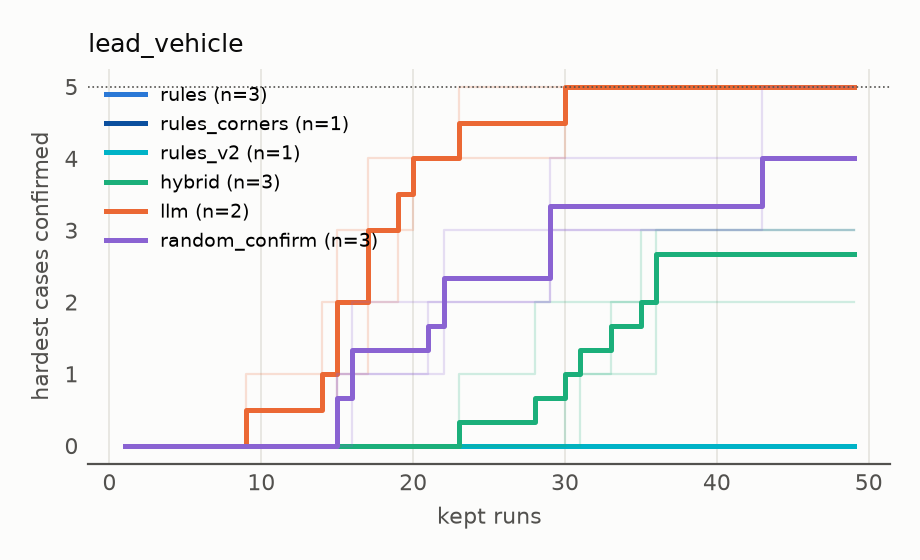
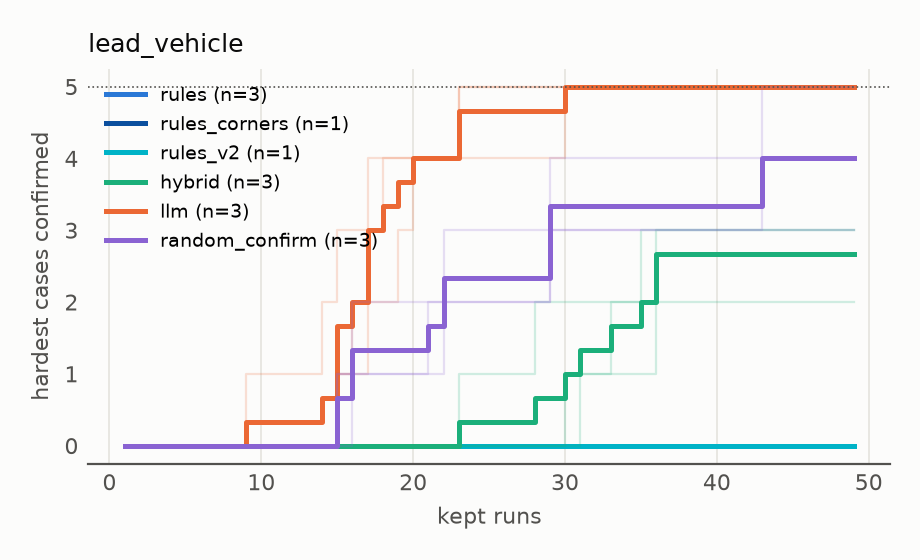
Lead vehicle llm replicate 4: 5 of 5 at 23 runs; lead vehicle complete

diff --git a/FACTS.md b/FACTS.md
@@ -554,16 +554,15 @@ space (2 knobs, 10 scenes) the rule candidates, alone or chosen by Claude,
 are the fastest and most consistent; the free Claude proposer is the
 slowest and most variable.
 
-### Lead vehicle, replicates so far (10 Oct)
+### Lead vehicle, three replicates of every method (10 Oct)
 
-Hardest 5 confirmed in 49 runs (llm: runs to the goal): llm 5 of 5 at 23
-and at 30 (both clean replicates; replicate 1 stopped on the broad count,
+Hardest 5 confirmed in 49 runs (llm: runs to the goal): llm 5 of 5 at 23,
+30 and 23 (three clean replicates; replicate 1 stopped on the broad count,
 left out); random + confirmation 5 at 43, then 4, then 3; hybrid 2, 3, 3; rules 0,
 0, 0 (also rules + corners 0, rules_v2 0). In this larger space (3 knobs,
 failures at the knob extremes) the free Claude proposer is fastest and
 most consistent; the rule candidates, alone or under Claude (hybrid), stay
-near the recorded setting and miss the extremes. A fourth llm replicate
-is queued (to replace the left-out one).
+near the recorded setting and miss the extremes.
 
 ### Cut-in, replicates so far (10 Oct)
 

diff --git a/METHODS.md b/METHODS.md
@@ -24,7 +24,7 @@ k most challenging scenes (1 = a crash), whether or not it was confirmed.
 | lead_vehicle | rules_corners | 1 | 49 | 0 | 49 | 49 | 0 of 5 | 0.853 | 0 | 0.0 |
 | lead_vehicle | rules_v2 | 1 | 49 | 0 | 49 | 49 | 0 of 5 | 0.891 | 1 | 0.0 |
 | lead_vehicle | hybrid | 3 | 49, 49, 49 | 0 | 49, 49, 49 | 49 | 2, 3, 3 of 5 | 0.92, 0.952, 0.955 | 7, 10, 9 | 110.8, 100.4, 101.3 |
-| lead_vehicle | llm | 2 | 28, 35 | 2 | 23, 30 | 26.5 | 5, 5 of 5 | 1.0, 1.0 | 21, 23 | 59.8, 75.8 |
+| lead_vehicle | llm | 3 | 28, 35, 28 | 3 | 23, 30, 23 | 23 | 5, 5, 5 of 5 | 1.0, 1.0, 1.0 | 21, 23, 17 | 59.8, 75.8, 59.1 |
 | lead_vehicle | random_confirm | 3 | 49, 49, 49 | 1 | 43, 49, 49 | 49 | 5, 4, 3 of 5 | 1.0, 0.978, 0.953 | 17, 17, 11 | 0.0, 0.0, 0.0 |
 | pedestrian_crossing | rules | 1 | 49 | 0 | 49 | 49 | 0 of 5 | 0.643 | 0 | 0.0 |
 | pedestrian_crossing | hybrid | 1 | 49 | 0 | 49 | 49 | 0 of 5 | 0.636 | 0 | 90.1 |

diff --git a/BACK.md b/BACK.md
@@ -50,8 +50,8 @@ by day is in `LOG.md`. Live results: `research/simgate serve` (Results tab),
    far, `METHODS.md`): pedestrian x ego speed (2 knobs, three replicates
    each, complete) hybrid 24/28/24, rules 25/25/25, random + confirmation
    31/32/32, llm 28/40/37 runs to the goal; lead
-   vehicle (3 knobs, failures at the extremes) llm 5 of 5 by runs 23 and
-   30 (two clean replicates), random + confirmation 5 by 43, then 4 and 3 of 5,
+   vehicle (3 knobs, failures at the extremes) llm 5 of 5 by runs 23, 30
+   and 23 (three clean replicates), random + confirmation 5 by 43, then 4 and 3 of 5,
    hybrid 2, 3 and 3 of 5, rules 0, 0 and 0; cut-in (clean replicates only) hybrid 5 of 5 by
    runs 32, 36 and 46, llm 4 and 4 of 5, random + confirmation 3, 3 and 2 of 5, rules 2, 2 and 2 of 5 in 54. Plain random
    never confirms anything. Where the space is small every method does
